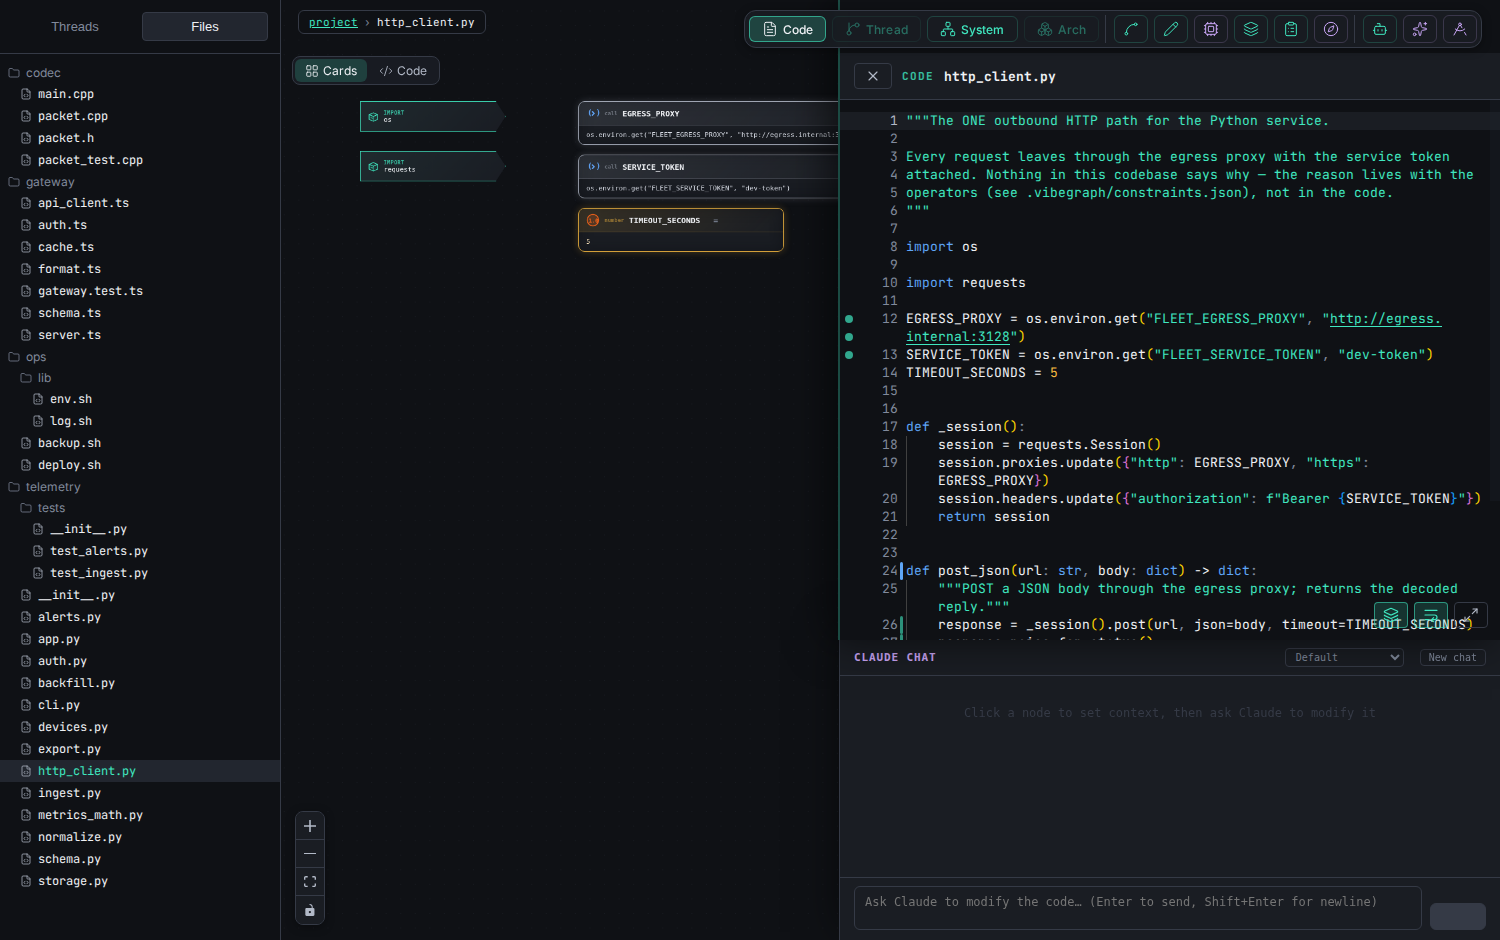
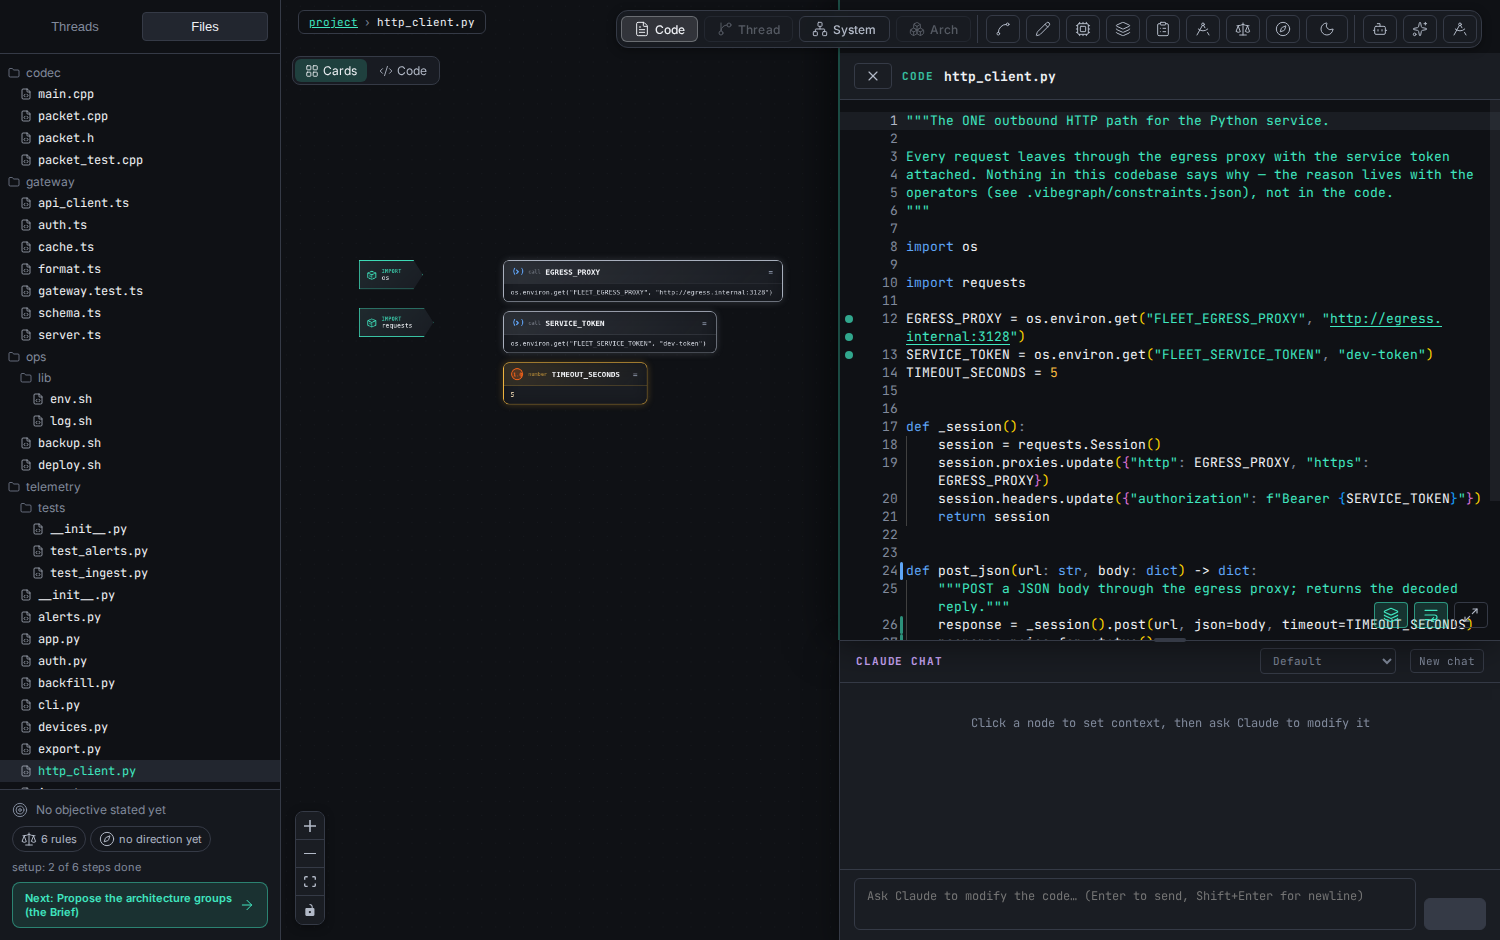
Docs pictures current again; the map fits the plan when you switch to it
- SystemView: the kept viewport is keyed by the coordinates it was taken
  in. Real and Overlay share one; Plan is fitted. Carried across, the Real
  map's pan cut the plan's cards off the right edge. test:e2e-plan checks
  every planned card is in view after the switch (red before: 78%).
- docs_screenshots: copies tracked files only (a local roadmap and an
  untracked file appeared in two pictures); the Arch and Diagram pictures
  are generated on pump-wear (they dated from August); a side-editor
  picture; the Plan sheet and the Agent Manager steps follow the app.
- All 19 screenshots regenerated. The README and VISUALISATION.md describe
  the side editor; the dataflow captions say eight flows; two command
  examples had `$ref` where the shell continuation `\` belonged.

diff --git a/test/e2e/docs-screenshots.spec.ts b/test/e2e/docs-screenshots.spec.ts
@@ -122,11 +122,43 @@ test.describe("docs screenshots — fleet-telemetry", () => {
     await page.locator("[data-investigation-delete]").click();
   });
 
+  test("side editor: a function shown as a view of its file", async ({ page }) => {
+    await boot(page);
+    await openThread(page, "telemetry/app.py:ingest_route");
+    await page.locator('[data-thread-rank-control] [data-rank-level="2"]').click(); // the level a thread opens at
+    await page.waitForTimeout(1200);
+    await page.locator(".vg-thread-node-seed").first().click();
+    await expect(page.locator("[data-node-editor-panel]")).toBeVisible({ timeout: 10_000 });
+    await page.waitForSelector("[data-node-editor-panel] .monaco-editor .view-line", { timeout: 10_000 });
+    await page.mouse.move(2, 2);
+    await page.waitForTimeout(1500);
+    await shot(page, "19-side-editor.png");
+  });
+
   test("generic direction: the skills, where they apply, what the hooks send", async ({ page }) => {
     await boot(page);
     await page.click("[data-skills-toggle]");
     await page.waitForTimeout(800);
     await shot(page, "11-direction.png");
+  });
+});
+
+test.describe("docs screenshots: pump-wear", () => {
+  test.skip(!SHOTS || !FIX.includes("pump-wear"), "VG_DOCS_SHOTS=1 VG_FIXTURE=examples/pump-wear");
+  test.setTimeout(120_000);
+  test("the Arch view and one file as a diagram", async ({ page }) => {
+    await boot(page);
+    await page.locator('[data-toolbar-group="views"]').getByRole("button", { name: "Arch", exact: true }).click();
+    await expect(page.locator("[data-architecture-view]")).toBeVisible({ timeout: 10_000 });
+    await page.mouse.move(2, 2);
+    await page.waitForTimeout(1200);
+    await shot(page, "03-arch.png");
+    await page.click('[data-side-panel-tab="files"]');
+    await page.click('[data-file-tree-row="model.py"]');
+    await page.waitForSelector(".react-flow__node", { timeout: 15_000 });
+    await page.mouse.move(2, 2);
+    await page.waitForTimeout(1500);
+    await shot(page, "04-fileview.png");
   });
 });
 
@@ -149,13 +181,18 @@ test.describe("docs screenshots — the plan", () => {
     await page.mouse.move(2, 2);
     await page.waitForTimeout(500);
     await shot(page, "16-plan-panel.png");
-    await page.click("[data-plan-toggle]");
+    // the panel is a sheet over a scrim (2026-10-05): its own close button
+    await page.locator("[data-sheet-close]").click();
+    await expect(page.locator("[data-sheet-scrim]")).toHaveCount(0);
     await openMap(page, "overview");
     await page.locator('[data-plan-view="plan"]').click();
     await page.mouse.move(2, 2);
     await page.waitForTimeout(1200);
     await shot(page, "17-plan-map.png");
     await page.locator('[data-plan-view="overlay"]').click();
+    await page.waitForTimeout(800);
+    // the map opens at a readable zoom from the top-left; the picture shows it all
+    await page.locator(".react-flow__controls-fitview").click();
     await page.mouse.move(2, 2);
     await page.waitForTimeout(1200);
     await shot(page, "18-plan-overlay.png");
@@ -170,6 +207,9 @@ test.describe("docs screenshots — Agent Manager", () => {
     await page.click("[data-work-run-toggle]");
     await page.locator("[data-work-run-task]").fill("add a wipe() to app.py that calls store.purge");
     await page.click("[data-hooked-start]");
+    // a run is a conversation (0.35.0): it waits for the next message until Finish
+    await expect(page.locator("[data-hooked-status]")).toHaveAttribute("data-hooked-status", "waiting", { timeout: 60_000 });
+    await page.click("[data-hooked-finish]");
     await expect(page.locator("[data-hooked-status]")).toHaveAttribute("data-hooked-status", "awaiting-review", { timeout: 60_000 });
     await page.mouse.move(2, 2);
     await page.waitForTimeout(800);

diff --git a/src/webview/system/SystemView.tsx b/src/webview/system/SystemView.tsx
@@ -112,7 +112,9 @@ export function SystemView({
   insight = null,
   mapFocus = null,
 }: Props) {
-  // The viewport, kept across a Real / Plan / Overlay switch (same lens).
+  // The viewport, kept across a Real / Overlay switch (same lens). The plan
+  // alone is laid out in its own coordinates, so it keeps its own: carried
+  // across, the Real map's pan cut the plan's cards off (2026-10-21).
   const keptView = useRef<{ key: string; vp: { x: number; y: number; zoom: number } } | null>(null);
   // Nothing remembered (or Subsystems remembered on a project with no
   // subsystem tier): the project's map, never an empty canvas.
@@ -176,6 +178,7 @@ export function SystemView({
   // Stage 3: the ghost count joins it so a plan arriving / clearing also
   // re-fits — ghosts land in view, not off-canvas.
   const flowView = `${mode}:${mode === "map" ? `${lens}:${planView}` : ""}:${plan ? plan.subsystems.length : 0}`;
+  const keptKey = `${lens}:${planView === "plan" ? "plan" : "real"}`;
   // The size the next layout will be — above LAYOUT_DEFER_AT it is computed
   // after a paint, behind a spinner (useDeferredLayout).
   const layoutSize = topoDrawn ? topoDrawn.nodes.length + topoDrawn.edges.length
@@ -421,7 +424,7 @@ export function SystemView({
 
       <ReactFlow
         onMove={(_, viewport) => {
-          if (mode === "map") keptView.current = { key: `${lens}`, vp: viewport };
+          if (mode === "map") keptView.current = { key: keptKey, vp: viewport };
         }}
         // Remount when the view changes (flowView), and once more when a
         // deferred layout first arrives, so the map is fitted to it.
@@ -439,7 +442,7 @@ export function SystemView({
         onInit={(inst) => {
           flowRef.current = inst;
           if (mode !== "map" || !base.nodes.length) return;
-          if (keptView.current?.key === lens) { inst.setViewport(keptView.current.vp); return; }
+          if (keptView.current?.key === keptKey) { inst.setViewport(keptView.current.vp); return; }
           const r = wrapRef.current?.getBoundingClientRect();
           if (r) inst.setViewport(readableViewport(layoutBounds(base.nodes), r.width, r.height, MAP_INSET, lens === "birdseye" ? 0.35 : undefined));
         }}

diff --git a/test/e2e/plan.spec.ts b/test/e2e/plan.spec.ts
@@ -148,12 +148,21 @@ test.describe("the hypothetical plan", () => {
     const t2 = (await toggle.boundingBox())!;
     expect((await insp.boundingBox())!.y).toBeGreaterThanOrEqual(t2.y + t2.height);
     await page.locator("[data-arch-inspector-close]").click();
+    // the Overview lens at the docs' size: there the Real map's pan, carried
+    // into the plan alone, cut its tool column off the right edge
+    await page.setViewportSize({ width: 1500, height: 940 });
+    await page.locator('[data-arch-lens="overview"]').click();
+    await page.waitForTimeout(800);
 
     await toggle.locator('[data-plan-view="plan"]').click();
     // 3 processes + 4 tools; every one a dashed ghost.
     await expect(page.locator('[data-arch-source="planned"]')).toHaveCount(7, { timeout: 10_000 });
     await expect(page.locator('[data-arch-source="derived"]')).toHaveCount(0);
     await expect(page.locator('[data-arch-id="plan:dashboard"]')).toBeVisible();
+    // 2026-10-21: the plan alone is drawn in its own coordinates, so the
+    // switch must not carry the Real map's pan into it (the cards landed off
+    // the right edge, half cut)
+    for (const card of await page.locator('[data-arch-source="planned"]').all()) await expect(card).toBeInViewport({ ratio: 0.99 }); // sub-pixel
     await page.mouse.move(2, 2);
     await page.screenshot({ path: join(REVIEW, "2-map-plan.png") });
 

diff --git a/README.md b/README.md
@@ -63,8 +63,8 @@ add `--windows` to `init --hooks` (see [SETUP.md](docs/guide/SETUP.md)).
 cd /path/to/your/project
 vibegraph-knowledge init --hooks --skill     # four hooks (per user, never committed) + the skills
 vibegraph-knowledge export                   # .vibegraph/knowledge/: the map, one contract per thread, the rules
-vibegraph-knowledge constraints add --kind invariant --files telemetry/ $ref
-  --text "Operators are paged only through alerts.notify after should_notify's dedup — a flapping sensor once paged forty times a minute." $ref
+vibegraph-knowledge constraints add --kind invariant --files telemetry/ \
+  --text "Operators are paged only through alerts.notify after should_notify's dedup — a flapping sensor once paged forty times a minute." \
   --check '{"rule":"calls-through","target":"notify","through":"should_notify"}'
 ```
 
@@ -174,6 +174,14 @@ entry point reaches dimmed, with the reason on hover. In **Files**, unreached,
 partly parsed and changed-since-export files are marked.
 
 ![The code view on http_client.py: environment reads marked, rank bars in the gutter](docs/screenshots/06-code-insight.png)
+
+Click a node to edit it in the side editor. A function is shown as a view of
+its file: the file's own line numbers, errors checked against the whole file,
+and a breadcrumb (project › file › class › function) that opens the whole file
+and comes back. Save sends just the function through the CST chokepoint. The
+Claude chat sits beneath it; drag the line between them to resize.
+
+![The side editor on ingest_route: the function at its own line numbers in app.py, the breadcrumb, and the Claude chat beneath](docs/screenshots/19-side-editor.png)
 
 ### Investigation board
 
@@ -329,7 +337,7 @@ The same findings appear in `security.md`, in each thread's contract, and in
 the post-edit hook when an edit adds one. That hook only advises; it never
 blocks. Name-based, and it says what it cannot see.
 
-![dataflow on the test fixture: seven unguarded flows in three languages, each with its source and path](docs/screenshots/15-dataflow.png)
+![dataflow on the test fixture: eight unguarded flows in three languages, each with its source and path](docs/screenshots/15-dataflow.png)
 
 ### Generic direction
 

diff --git a/docs/guide/VISUALISATION.md b/docs/guide/VISUALISATION.md
@@ -84,8 +84,9 @@ reads in ten seconds: processes, stores, outside callers, decision
 structures and trust boundaries, with each store's zones and SDKs folded into
 its card and everything planned but not built folded into one *N planned, not
 built* chip. Overview adds the zones in their store's box; Tools and Payloads
-draw everything. Zooming out never adds a box, and switching Real / Plan /
-Overlay keeps the lens and your zoom.
+draw everything. Zooming out never adds a box. Switching between Real and
+Overlay keeps the lens and your place on the map; Plan keeps the lens and fits
+the plan, which is laid out on its own.
 
 **Real uses the project's own words** once plan check calls an item realised:
 a process takes the plan's name (the chip *named · plan*; the code's name is
@@ -306,7 +307,15 @@ is written exactly as you typed it and the result says it was not formatted.
 
 - **Edit** — click a node (or open the node editor from the toolbar), change
   its code in the editor, **Save**. The file on disk changes; the views
-  re-derive.
+  re-derive. The editor shows a function as a view of its file: the file's
+  line numbers, errors checked against the whole file (so a name imported
+  above the function is not flagged), and a breadcrumb (project › file ›
+  class › function) whose file segment opens the whole file and whose
+  function segment returns. The cursor stays inside the function's lines.
+  The Claude chat beneath the editor resizes: drag the line between them, or
+  focus it and use the arrow keys.
+
+  ![The side editor on ingest_route: the function at app.py's line numbers, the breadcrumb, the chat beneath](../screenshots/19-side-editor.png)
 - **Intent** — describe the change in words; Claude drafts it, you see a
   preview, and only **Save** writes it.
 - **Describe an insertion** (toolbar) — Claude drafts new code for a place you

diff --git a/CHANGELOG.md b/CHANGELOG.md
@@ -3,6 +3,30 @@
 `vibegraph-knowledge` and the VibeGraph app. Newest first. Each entry says what
 changed and, where an existing user would notice, how behaviour differs.
 
+## Unreleased
+
+### The map fits the plan when you switch to it
+
+Switching the architecture map from Real to Plan kept the Real map's pan and
+zoom, keyed by lens alone. The plan alone is laid out in its own coordinates,
+so on the Overview lens its tool column landed off the right edge, half cut.
+The kept viewport is now shared only by views drawn in the same coordinates:
+Real and Overlay keep your place, as before; Plan is fitted. test:e2e-plan
+checks every planned card is fully in view after the switch (red on the prior
+code: a card 78% in view).
+
+### The pictures in the README and guides, current again
+
+- Every screenshot is regenerated from the current app. The Arch and Diagram
+  pictures, last taken in August with the old toolbar, are now generated too
+  (on `examples/pump-wear`), and a new one shows the side editor.
+- The generator copies only tracked files, so local state (a roadmap, manual
+  seeds, untracked work) can no longer appear in a published picture. Two of
+  its steps had stopped working: the Plan panel now closes as a sheet, and an
+  Agent Manager run waits for Finish.
+- The first command in the README and one in `CLI.md` ended their lines with
+  `$ref` where the shell continuation `\` belonged.
+
 ## 0.36.0 (2026-10-21): rules proposed and measured, the setup in one order, hooks in under half the time
 
 0.35.0 was cut in the repository but never published to npm, so on npm 0.36.0

diff --git a/docs/guide/CLI.md b/docs/guide/CLI.md
@@ -182,7 +182,7 @@ names and re-check the rules after every edit; `CLAUDE.md` points it at
 Then add what only your team knows:
 
 ```bash
-vibegraph-knowledge constraints add --kind invariant --all $ref
+vibegraph-knowledge constraints add --kind invariant --all \
   --text "Every outbound HTTP call goes through lib/http_client.py: it routes via the egress proxy and attaches the service token."
 vibegraph-knowledge export        # re-export whenever the rules or the code change
 ```
@@ -411,7 +411,7 @@ dispatch, and a value that goes into a database or file and comes back out
 It does no secret scanning and knows no CVEs — run `npm audit` /
 `pip-audit` / `cargo audit` for dependencies.
 
-![dataflow on the test fixture: seven unguarded flows across Python, TypeScript and bash](../screenshots/15-dataflow.png)
+![dataflow on the test fixture: eight unguarded flows across Python, TypeScript and bash](../screenshots/15-dataflow.png)
 
 ### `plan` — a hypothetical project, kept apart from the real one
 
